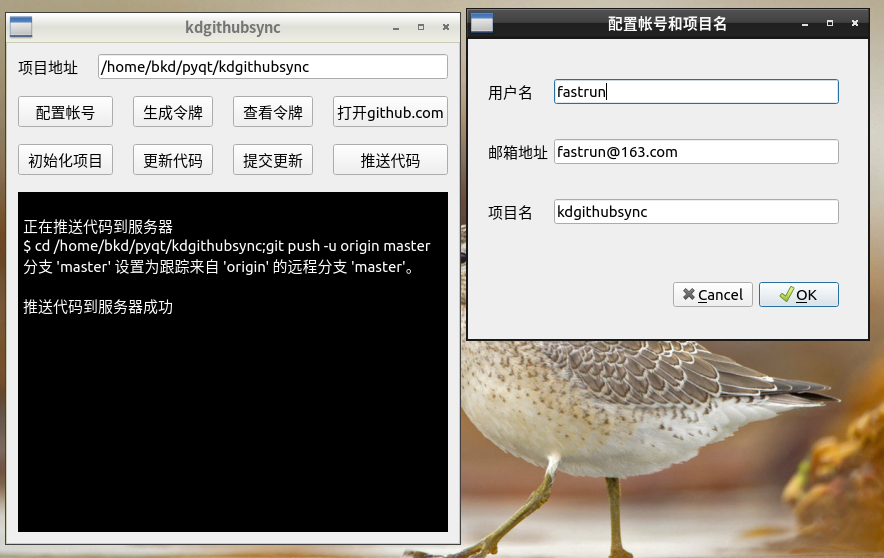
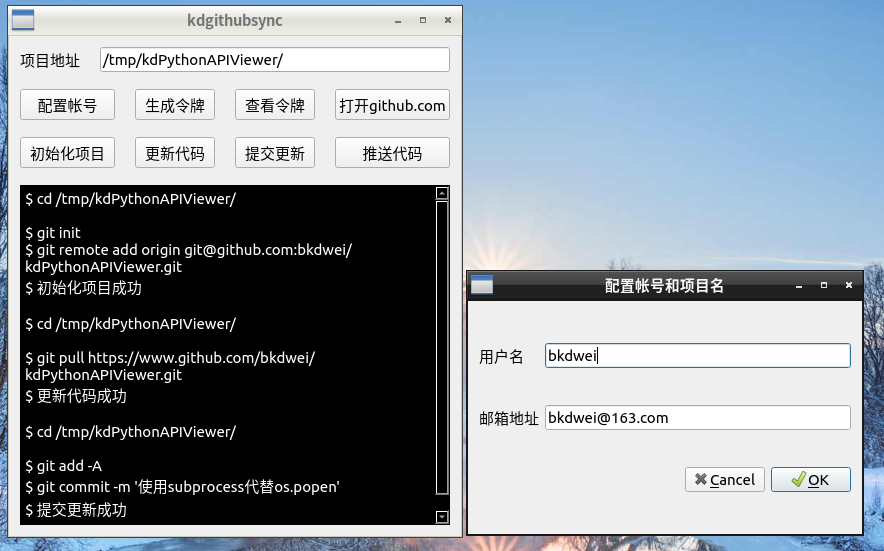
调试QProcess

diff --git a/kdgithubsync.py b/kdgithubsync.py
@@ -1,13 +1,10 @@
-# coding: utf-8
-from PyQt5 import QtCore, QtGui, QtWidgets
-from PyQt5.QtCore import pyqtSlot, Qt, QFile, QTextCodec
-from PyQt5.QtWidgets import QMainWindow, QFileDialog, QWidget
+# -*- coding:utf-8 -*-
+
 import os
 import sys
 import webbrowser
-from PyQt5.QtWidgets import *
-from PyQt5.QtGui import *
-from PyQt5.QtCore import *
+from PyQt5.QtCore import pyqtSlot, QProcess
+from PyQt5.QtWidgets import QWidget, QApplication, QInputDialog
 from PyQt5.uic import loadUi
 from github_config import config
 from fileutil import check_and_create, check_and_create_dir
@@ -18,82 +15,128 @@ class kdgithubsync(QWidget):
         super(kdgithubsync, self).__init__()
         loadUi("kdgithubsync.ui", self)
         self.config = config()
-        self.exec_cmd = self.config.exec_cmd
         self.config.show_result = self.show_result
         if self.config.conf:
             self.path = self.config.conf["path"]
             self.le_path.setText(self.path)
+        # ~ 用于执行linux的git指令
+        self.process = QProcess()
+        # ~ self.process.readyReadStandardError.connect(self.onReadyReadStandardOutput)
+        # ~ self.process.readyReadStandardOutput.connect(self.onReadyReadStandardOutput)
+        self.process.setProcessChannelMode(QProcess.MergedChannels)
+        print("默认状态:",self.process.state())
+        print(dir(self.process))
+        self.process.readyRead.connect(self.onReadyReadStandardOutput)
+        # ~ self.process.stateChanged.connect(self.onReadyReadStandardOutput)
 
+    # ~ 配置帐号
     @pyqtSlot()
     def on_pb_config_account_clicked(self):
         self.config.show()
         self.config.path = self.le_path.text()
 
+    # ~ 生成令牌
     @pyqtSlot()
     def on_pb_generate_key_clicked(self):
         if not self.config.conf["email"]:
             self.on_pb_config_account_clicked()
-        self.show_result("正在生成令牌，请回车确认")
+        self.show_result("$ 正在生成令牌，请回到终端回车确认")
         self.exec_cmd("ssh-keygen -t rsa -C {}".format(self.config.conf["email"]))
-        self.show_result("生成令牌结束")
+        # ~ self.show_result("$ 生成令牌结束")
 
+    # ~ 查看令牌
     @pyqtSlot()
     def on_pb_view_key_clicked(self):
         with open(os.environ["HOME"] + "/.ssh/id_rsa.pub", "r") as f:
             QMessageBox.information(self, "令牌", f.read(), QMessageBox.Yes)
 
+    # ~ 打开github.com
     @pyqtSlot()
     def on_pb_open_github_clicked(self):
         webbrowser.open_new_tab("https://www.github.com")
 
+    # ~ 初始化项目
     @pyqtSlot()
     def on_pb_init_project_clicked(self):
         self.path = self.le_path.text()
         if self.path and self.config.conf:
             check_and_create_dir(self.path)
-            self.show_result("正在初始化项目")
+            self.init_project_name()
+            # ~ self.show_result("$正在初始化项目" + self.project_name)
             cmd_init_project = "cd {};git init;git remote add origin git@github.com:{}/{}.git".format(
-                self.path, self.config.conf["username"], self.config.conf["project"]
+                self.path, self.config.conf["username"], self.project_name
             )
             self.exec_cmd(cmd_init_project)
-            self.show_result("初始化项目成功")
+            self.show_result("$ 初始化项目成功")
 
+    # ~ 根据项目地址截取项目名称,如/home/bkd/pyqt/kdPythonAPIViewer,则项目名为kdPythonAPIViewer
+    def init_project_name(self):
+        project_path = self.le_path.text()
+        if "/" == project_path[-1]:
+            project_path = project_path[:-1]
+        last_index_slash = project_path.rfind("/")
+        self.project_name = project_path[last_index_slash + 1 :]
+
+    # ~ 更新代码
     @pyqtSlot()
     def on_pb_update_repository_clicked(self):
-        self.show_result("正在更新代码")
+        # ~ self.show_result("$ 正在更新代码")
+        self.init_project_name()
         self.path = self.le_path.text()
         self.exec_cmd(
             "cd {};git pull https://www.github.com/{}/{}.git".format(
-                self.path, self.config.conf["username"], self.config.conf["project"]
+                self.path, self.config.conf["username"], self.project_name
             )
         )
-        self.show_result("更新代码成功")
+        self.show_result("$ 更新代码成功")
 
+    # ~ 提交更新到本地仓库,不会推送到服务器
     @pyqtSlot()
     def on_pb_commit_update_clicked(self):
         comment, ok = QInputDialog.getMultiLineText(self, "备注更新", "请输入备注本次更新（可为空）:", "")
         if ok:
-            self.show_result("正在提交更新")
+            # ~ self.show_result("正在提交更新")
             self.path = self.le_path.text()
             self.exec_cmd(
                 "cd {};git add -A;git commit -m '{}'".format(self.path, comment)
             )
-            self.show_result("提交更新成功")
+            self.show_result("$ 提交更新成功")
 
+    # ~ 推送修改过的代码到github服务器
     @pyqtSlot()
     def on_pb_push_update_clicked(self):
-        self.show_result("正在推送代码到服务器")
+        # ~ self.show_result("正在推送代码到服务器")
         self.exec_cmd("cd {};git push -u origin master".format(self.path))
-        self.show_result("推送代码到服务器成功")
+        self.show_result("$ 推送代码到服务器成功")
 
+    # ~ 在终端输出信息
     def show_result(self, result):
-        self.te_result.setText(self.te_result.toPlainText() + "\n" + result)
+        self.te_result.append(result)
+
+    def onReadyReadStandardOutput(self):
+        print("出发状态:",self.process.state())
+        # ~ result = self.process.readAllStandardOutput().data().decode()
+        result = self.process.readAllStandardOutput()
+        print("结果:",str(result))
+        # ~ self.show_result(result)
+
+    def exec_cmd(self, cmd):
+        cmds = cmd.split(";")
+        for single_cmd in cmds:
+            # ~ if self.process.state() != 2:
+            self.show_result("$ " + single_cmd)
+            print("启动前状态:",self.process.state())
+                # ~ if single_cmd.find("ssh-keygen") >= 0:
+                    # ~ self.process.startDetached(cmd)
+                # ~ else:
+            self.process.setProcessChannelMode(QProcess.MergedChannels)
+            self.process.start(single_cmd,["-i"])
+            print("启动后状态:",self.process.state())
+            # ~ self.onReadyReadStandardOutput()
 
 
 if __name__ == "__main__":
-    import sys
-
-    app = QtWidgets.QApplication(sys.argv)
+    app = QApplication(sys.argv)
     win = kdgithubsync()
     win.show()
     sys.exit(app.exec_())

diff --git a/github_config.py b/github_config.py
@@ -1,10 +1,9 @@
-# coding: utf-8
+# -*- coding:utf-8 -*-
 
 import os
 import json
-from PyQt5 import QtCore, QtGui, QtWidgets
 from PyQt5.QtCore import pyqtSlot
-from PyQt5.QtWidgets import QWidget, QDialog
+from PyQt5.QtWidgets import QDialog
 from PyQt5.uic import loadUi
 from fileutil import check_and_create, check_and_create_dir
 
@@ -20,12 +19,12 @@ class config(QDialog):
         check_and_create(self.config_path)
         with open(self.config_path, "r") as f:
             content = f.read().strip()
-            print("content:" + content)
+            # ~ print("content:" + content)
             if content != "":
                 conf = json.loads(content)
                 self.le_username.setText(conf["username"])
                 self.le_email.setText(conf["email"])
-                self.le_project.setText(conf["project"])
+                # ~ self.le_project.setText(conf["project"])
                 self.conf = conf
                 self.path = conf["path"]
             else:
@@ -36,28 +35,29 @@ class config(QDialog):
         conf = {}
         conf["username"] = self.le_username.text()
         conf["email"] = self.le_email.text()
-        conf["project"] = self.le_project.text()
+        # ~ conf["project"] = self.le_project.text()
         conf["path"] = self.path
         check_and_create(self.config_path)
         check_and_create_dir(self.path)
         with open(self.config_path, "w+") as f:
             f.write(json.dumps(conf))
             self.exec_cmd(
-                "cd {};git config --global user.name {};git config --global user.email {};".format(
+                "cd {};git config --global user.name {};git config --global user.email {}".format(
                     self.path, conf["username"], conf["email"]
                 )
             )
-            self.show_result("设置帐号信息成功")
+            self.show_result("$ 设置帐号信息成功")
         self.conf = conf
 
     @pyqtSlot()
     def on_buttonBox_rejected(self):
-        print("rejected(")
+        pass
 
     def exec_cmd(self, cmd):
-        r = os.popen(cmd)
-        self.show_result("$ " + cmd)
-        text = r.read()
-        r.close()
-        self.show_result(text)
-        return text
+        cmds = cmd.split(";")
+        for single_cmd in cmds:
+            r = os.popen(single_cmd)
+            self.show_result("$ " + single_cmd)
+            text = r.read()
+            r.close()
+            self.show_result(text)

diff --git a/README.md b/README.md
@@ -1,5 +1,9 @@
 # kdgithubsync
-用python3和pyqt5写的github同步客户端
+用python3和pyqt5写的github同步客户端,仅支持linux系统.window系统需要gitsh等终端才能运行.
+
+配置令牌的时候,需要在终端后台自己手动确认.
+
+修改项目地址后,需要重新配置帐号.
 
 # 截图
 ![kdgithubsync_screenshot](https://github.com/bkdwei/kdgithubsync/blob/master/doc/kdgithubsync_screenshot.png "截图")
